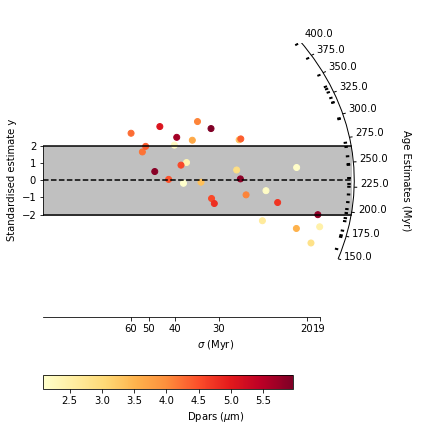
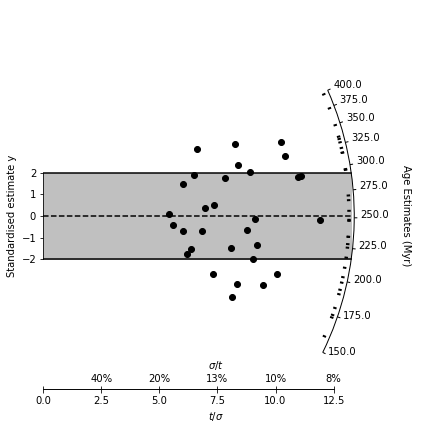
Revert back to radialplot without Dpars for the Readme

diff --git a/pyRadialPlot/FTradialplot.py b/pyRadialPlot/FTradialplot.py
@@ -314,7 +314,8 @@ def radialplot(Ns=None, Ni=None, zeta=None, rhod=None, file=None,
         Ni = data["Ni"]
         zeta = data["zeta"]
         rhod = data["rhod"]
-        Dpars = data["dpars"]
+        if Dpars:
+            Dpars = data["dpars"]
     
     if not Dpars and not "color" in kwargs.keys():
         kwargs["color"] = "black"
